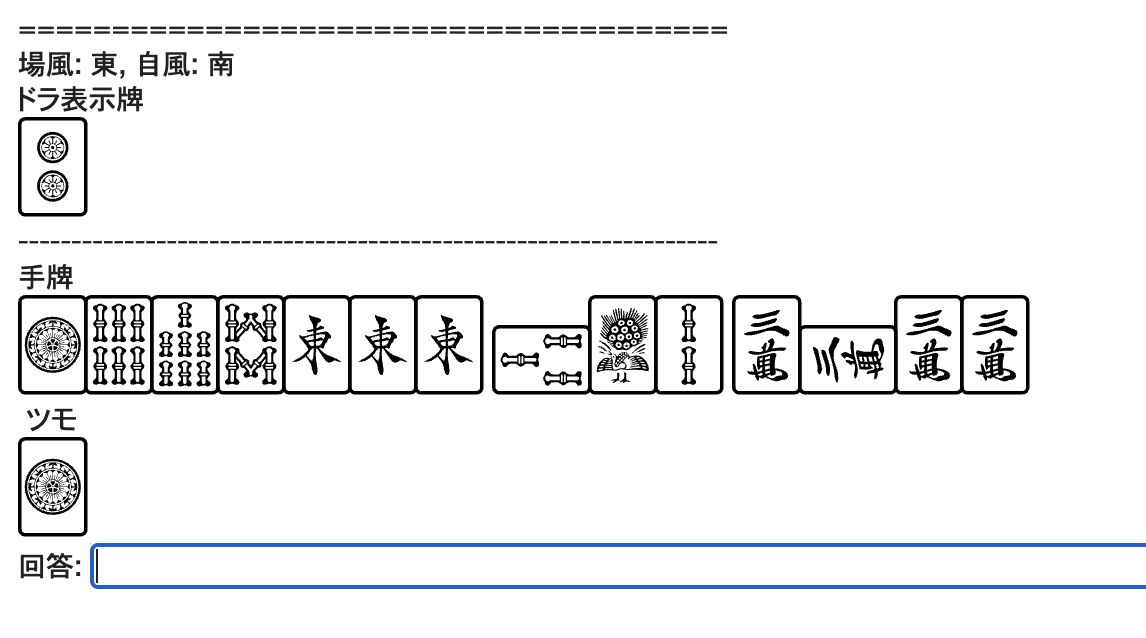
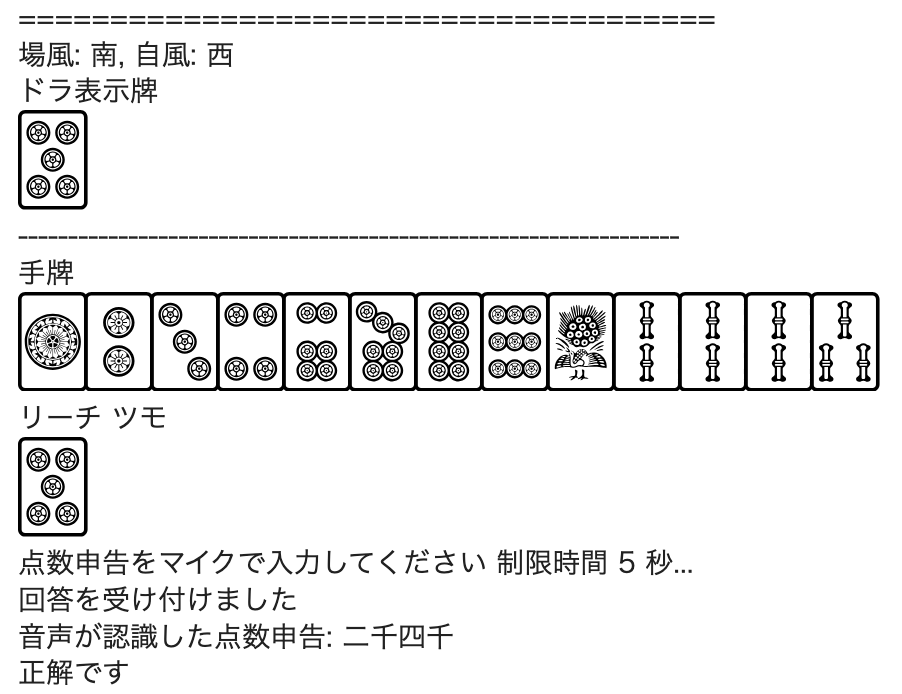
add colab

Changed region(s): [[0.0, 0.0, 1.0, 1.0]]

diff --git a/README.md b/README.md
@@ -9,6 +9,10 @@ df = generate_question(n=3) # 3問生成
 print(df)
 ```
 
-問題に答えるアプリケーションの例としてnotebook/question.ipynbを公開しています。
+`mahjong_question_generator`を使って問題を生成して音声で答えるアプリケーションの例としてnotebook/question.ipynbを公開しています。
+
+https://colab.research.google.com/drive/1jPZPrCUbe7do1D1VL30Rlm13_n6U3Buq?usp=sharing
+
+スクリーンショット
 
 ![](./question.png)
